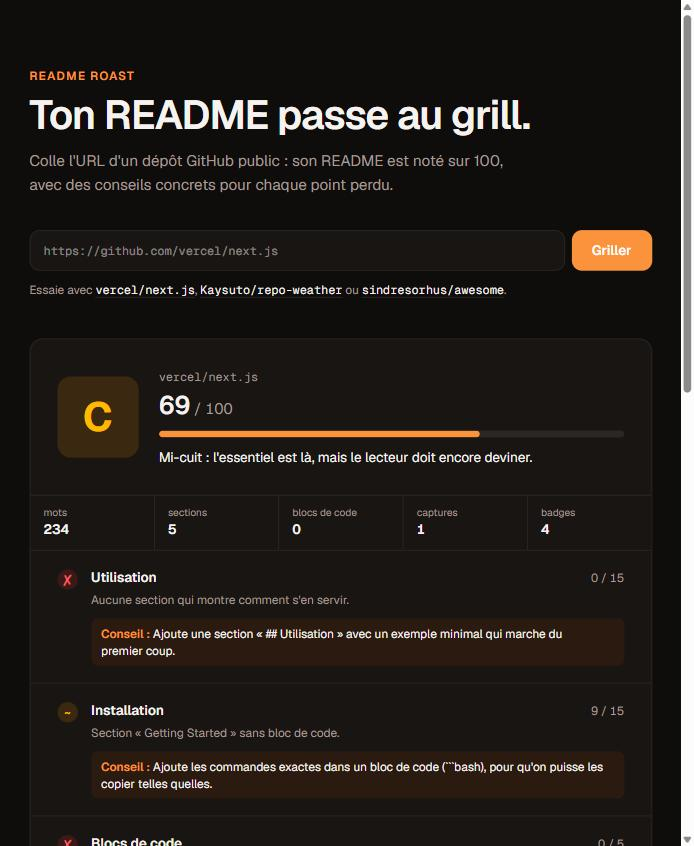
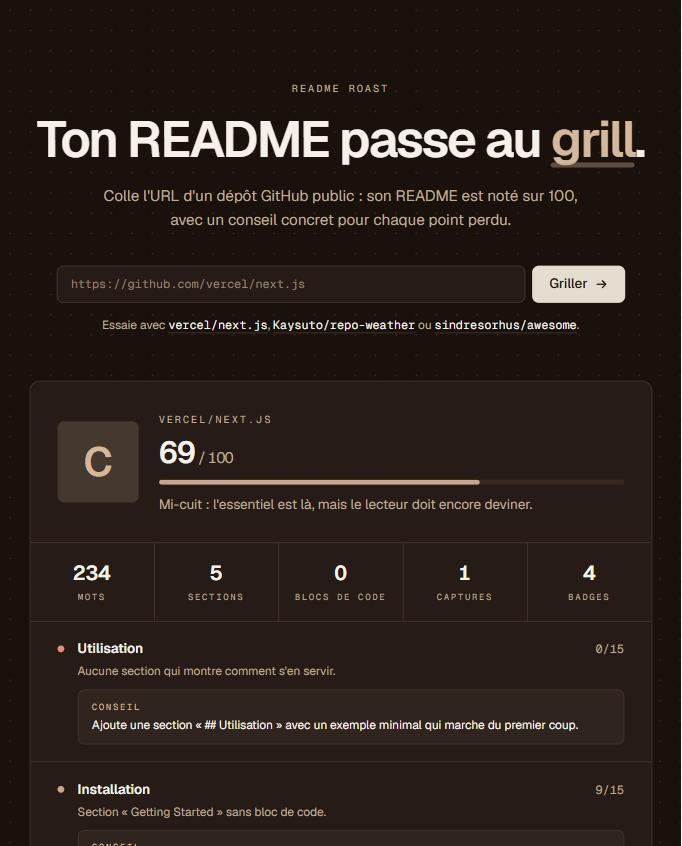
feat: design aux couleurs de kaysuto.fr

diff --git a/src/app/result.tsx b/src/app/result.tsx
@@ -3,11 +3,11 @@ import { parseRepo } from "@/lib/repo-url";
 import { analyzeReadme, type Check, type Grade, type Report } from "@/lib/rules";
 
 const GRADE_STYLE: Record<Grade, string> = {
-  A: "bg-emerald-500/15 text-emerald-600 dark:text-emerald-400",
-  B: "bg-lime-500/15 text-lime-700 dark:text-lime-400",
-  C: "bg-amber-500/15 text-amber-700 dark:text-amber-400",
-  D: "bg-orange-500/15 text-orange-700 dark:text-orange-400",
-  F: "bg-red-500/15 text-red-600 dark:text-red-400",
+  A: "bg-success/15 text-success",
+  B: "bg-success/10 text-success",
+  C: "bg-accent/20 text-accent-text",
+  D: "bg-corail/15 text-corail",
+  F: "bg-destructive/15 text-destructive",
 };
 
 const ERRORS = {
@@ -25,8 +25,8 @@ export async function Result({ searchParams }: { searchParams: PageProps<"/">["s
   if (!ref) {
     return (
       <Notice title="Adresse non reconnue">
-        Colle une URL du type <code className="font-mono">https://github.com/propriétaire/dépôt</code> ou simplement{" "}
-        <code className="font-mono">propriétaire/dépôt</code>.
+        Colle une URL du type <code className="font-mono text-foreground">https://github.com/propriétaire/dépôt</code> ou
+        simplement <code className="font-mono text-foreground">propriétaire/dépôt</code>.
       </Notice>
     );
   }
@@ -39,7 +39,7 @@ export async function Result({ searchParams }: { searchParams: PageProps<"/">["s
   if (!result.repo.readme) {
     return (
       <Notice title="Pas de README à griller">
-        <a href={result.repo.url} className="font-mono underline underline-offset-4">
+        <a href={result.repo.url} className="font-mono text-foreground underline underline-offset-4">
           {result.repo.owner}/{result.repo.name}
         </a>{" "}
         n&apos;a pas de README. C&apos;est la première chose qu&apos;un visiteur cherche : commence par un titre, une phrase
@@ -63,39 +63,37 @@ function ReportView({ repo, report }: { repo: RepoData; report: Report }) {
   ] as const;
 
   return (
-    <section aria-labelledby="verdict" className="mt-12 overflow-hidden rounded-2xl border border-border bg-card">
+    <section aria-labelledby="verdict" className="mt-14 overflow-hidden rounded-xl border border-border bg-card">
       <div className="flex flex-col gap-6 p-6 sm:flex-row sm:items-center sm:p-8">
         <div
-          className={`flex size-24 shrink-0 items-center justify-center rounded-2xl text-5xl font-bold ${GRADE_STYLE[report.grade]}`}
+          className={`flex size-24 shrink-0 items-center justify-center rounded-lg text-5xl font-semibold tracking-tight ${GRADE_STYLE[report.grade]}`}
           aria-label={`Note ${report.grade}`}
         >
           {report.grade}
         </div>
         <div className="min-w-0 flex-1">
-          <a
-            href={repo.readmeUrl ?? repo.url}
-            className="font-mono text-sm text-muted underline-offset-4 hover:text-foreground hover:underline"
-          >
+          <a href={repo.readmeUrl ?? repo.url} className="label transition hover:text-foreground">
             {repo.owner}/{repo.name}
           </a>
-          <p className="mt-1 text-3xl font-semibold tabular-nums">
+          <p className="mt-2 text-4xl font-semibold tracking-tight tabular-nums">
             {report.score}
             <span className="text-lg font-normal text-muted"> / 100</span>
           </p>
-          <div className="mt-3 h-2 overflow-hidden rounded-full bg-border" aria-hidden>
+          <div className="mt-3 h-1.5 overflow-hidden rounded-full bg-surface" aria-hidden>
             <div className="h-full rounded-full bg-accent" style={{ width: `${report.score}%` }} />
           </div>
-          <p id="verdict" className="mt-3 text-pretty">
+          <p id="verdict" className="mt-3 text-muted text-pretty">
             {report.verdict}
           </p>
         </div>
       </div>
 
-      <dl className="grid grid-cols-3 gap-px border-t border-border bg-border sm:grid-cols-5">
+      {/* Trois cases par ligne sur mobile : les deux dernières s'élargissent au lieu de laisser un trou. */}
+      <dl className="flex flex-wrap gap-px border-t border-border bg-border">
         {stats.map(([label, value]) => (
-          <div key={label} className="bg-card px-4 py-3">
-            <dt className="text-xs text-muted">{label}</dt>
-            <dd className="font-semibold tabular-nums">{value.toLocaleString("fr-FR")}</dd>
+          <div key={label} className="flex flex-1 basis-[30%] flex-col-reverse items-center gap-1 bg-card px-3 py-5 text-center sm:basis-0">
+            <dt className="label text-[0.65rem]">{label}</dt>
+            <dd className="text-2xl font-semibold tabular-nums">{value.toLocaleString("fr-FR")}</dd>
           </div>
         ))}
       </dl>
@@ -111,31 +109,25 @@ function ReportView({ repo, report }: { repo: RepoData; report: Report }) {
 
 function CheckRow({ check }: { check: Check }) {
   const status = check.earned === check.max ? "full" : check.earned > 0 ? "partial" : "none";
-  const icon = { full: "✓", partial: "~", none: "✗" }[status];
-  const color = {
-    full: "bg-emerald-500/15 text-emerald-600 dark:text-emerald-400",
-    partial: "bg-amber-500/15 text-amber-700 dark:text-amber-400",
-    none: "bg-red-500/15 text-red-600 dark:text-red-400",
-  }[status];
+  const dot = { full: "bg-success", partial: "bg-accent", none: "bg-corail" }[status];
+  const label = { full: "Réussi", partial: "Partiel", none: "Raté" }[status];
 
   return (
     <li className="flex gap-4 p-5 sm:px-8">
-      <span className={`mt-0.5 flex size-6 shrink-0 items-center justify-center rounded-full text-sm font-bold ${color}`} aria-hidden>
-        {icon}
-      </span>
+      <span className={`mt-2 size-2 shrink-0 rounded-full ${dot}`} role="img" aria-label={label} />
       <div className="min-w-0 flex-1">
         <div className="flex items-baseline justify-between gap-4">
           <h3 className="font-semibold">{check.label}</h3>
-          <span className="shrink-0 text-sm tabular-nums text-muted">
-            {check.earned} / {check.max}
+          <span className="shrink-0 font-mono text-sm tabular-nums text-muted">
+            {check.earned}/{check.max}
           </span>
         </div>
         <p className="mt-1 text-sm text-muted">{check.detail}</p>
         {check.advice && (
-          <p className="mt-3 rounded-lg bg-accent-soft px-3 py-2 text-sm text-pretty">
-            <span className="font-semibold text-accent">Conseil : </span>
-            {check.advice}
-          </p>
+          <div className="mt-3 rounded-lg border border-border bg-surface/60 px-4 py-3">
+            <p className="label text-[0.65rem] text-accent-text">Conseil</p>
+            <p className="mt-1 text-sm text-pretty">{check.advice}</p>
+          </div>
         )}
       </div>
     </li>
@@ -144,7 +136,7 @@ function CheckRow({ check }: { check: Check }) {
 
 function Notice({ title, children }: { title: string; children: React.ReactNode }) {
   return (
-    <section role="status" className="mt-12 rounded-2xl border border-border bg-card p-6 sm:p-8">
+    <section role="status" className="mt-14 rounded-xl border border-border bg-card p-6 sm:p-8">
       <h2 className="font-semibold">{title}</h2>
       <p className="mt-2 text-muted text-pretty">{children}</p>
     </section>
@@ -153,8 +145,8 @@ function Notice({ title, children }: { title: string; children: React.ReactNode 
 
 export function ResultSkeleton() {
   return (
-    <div role="status" className="mt-12 animate-pulse rounded-2xl border border-border bg-card p-8 text-muted">
-      Mise au grill du README…
+    <div role="status" className="mt-14 rounded-xl border border-border bg-card p-8 text-center">
+      <p className="label animate-pulse">Mise au grill du README…</p>
     </div>
   );
 }

diff --git a/src/app/page.tsx b/src/app/page.tsx
@@ -7,62 +7,81 @@ const EXAMPLES = ["vercel/next.js", "Kaysuto/repo-weather", "sindresorhus/awesom
 
 export default function Page({ searchParams }: PageProps<"/">) {
   return (
-    <main className="mx-auto w-full max-w-3xl flex-1 px-4 py-12 sm:py-20">
-      <header>
-        <p className="text-sm font-semibold uppercase tracking-widest text-accent">README Roast</p>
-        <h1 className="mt-3 text-4xl font-semibold tracking-tight text-balance sm:text-5xl">
-          Ton README passe au grill.
-        </h1>
-        <p className="mt-4 max-w-xl text-lg text-muted text-pretty">
-          Colle l&apos;URL d&apos;un dépôt GitHub public : son README est noté sur 100, avec des conseils concrets pour
-          chaque point perdu.
+    <div className="bg-dots flex-1">
+      <main className="mx-auto w-full max-w-3xl px-4 py-16 sm:py-24">
+        <header className="text-center">
+          <p className="label">README Roast</p>
+          <h1 className="mt-5 text-4xl font-semibold tracking-[-0.038em] text-balance sm:text-6xl">
+            Ton README passe au{" "}
+            <span className="relative inline-block text-accent-text">
+              grill
+              <span className="absolute inset-x-0 -bottom-1 h-1.5 rounded-full bg-accent/40" aria-hidden />
+            </span>
+            .
+          </h1>
+          <p className="mx-auto mt-6 max-w-xl text-lg text-muted text-pretty">
+            Colle l&apos;URL d&apos;un dépôt GitHub public : son README est noté sur 100, avec un conseil concret pour
+            chaque point perdu.
+          </p>
+        </header>
+
+        <Form action="/" className="mx-auto mt-10 flex max-w-2xl flex-col gap-2 sm:flex-row">
+          <label htmlFor="repo" className="sr-only">
+            Dépôt GitHub
+          </label>
+          <input
+            id="repo"
+            name="repo"
+            required
+            autoComplete="off"
+            spellCheck={false}
+            placeholder="https://github.com/vercel/next.js"
+            className="h-11 min-w-0 rounded-lg border border-border bg-card px-4 font-mono text-sm outline-none transition placeholder:text-muted/70 focus:border-accent focus:ring-3 focus:ring-accent/25 sm:flex-1"
+          />
+          <button
+            type="submit"
+            className="inline-flex h-11 items-center justify-center gap-2 rounded-lg bg-primary px-5 font-medium text-primary-foreground transition hover:opacity-90 focus-visible:ring-3 focus-visible:ring-accent/40 focus-visible:outline-none"
+          >
+            Griller
+            <svg viewBox="0 0 16 16" className="size-4" fill="none" stroke="currentColor" strokeWidth="1.6" aria-hidden>
+              <path d="M3 8h10M9 4l4 4-4 4" strokeLinecap="round" strokeLinejoin="round" />
+            </svg>
+          </button>
+        </Form>
+
+        <p className="mt-4 text-center text-sm text-muted">
+          Essaie avec{" "}
+          {EXAMPLES.map((repo, i) => (
+            <span key={repo}>
+              {i > 0 && (i === EXAMPLES.length - 1 ? " ou " : ", ")}
+              <Link
+                href={`/?repo=${repo}`}
+                className="font-mono text-foreground underline decoration-border underline-offset-4 transition hover:decoration-accent"
+              >
+                {repo}
+              </Link>
+            </span>
+          ))}
+          .
         </p>
-      </header>
 
-      <Form action="/" className="mt-10 flex flex-col gap-2 sm:flex-row">
-        <label htmlFor="repo" className="sr-only">
-          Dépôt GitHub
-        </label>
-        <input
-          id="repo"
-          name="repo"
-          required
-          autoComplete="off"
-          spellCheck={false}
-          placeholder="https://github.com/vercel/next.js"
-          className="h-12 min-w-0 rounded-xl sm:flex-1 border border-border bg-card px-4 font-mono text-sm outline-none transition focus:border-accent focus:ring-4 focus:ring-accent/15"
-        />
-        <button
-          type="submit"
-          className="h-12 rounded-xl bg-accent px-6 font-semibold text-white transition hover:brightness-110 focus-visible:ring-4 focus-visible:ring-accent/30 focus-visible:outline-none"
-        >
-          Griller
-        </button>
-      </Form>
+        <Suspense fallback={<ResultSkeleton />}>
+          <Result searchParams={searchParams} />
+        </Suspense>
 
-      <p className="mt-3 text-sm text-muted">
-        Essaie avec{" "}
-        {EXAMPLES.map((repo, i) => (
-          <span key={repo}>
-            {i > 0 && (i === EXAMPLES.length - 1 ? " ou " : ", ")}
-            <Link href={`/?repo=${repo}`} className="font-mono text-foreground underline decoration-border underline-offset-4 hover:decoration-accent">
-              {repo}
-            </Link>
-          </span>
-        ))}
-        .
-      </p>
-
-      <Suspense fallback={<ResultSkeleton />}>
-        <Result searchParams={searchParams} />
-      </Suspense>
-
-      <footer className="mt-16 border-t border-border pt-6 text-sm text-muted">
-        Règles fixes, sans IA : le même README obtient toujours la même note.{" "}
-        <a href="https://github.com/Kaysuto/readme-roast" className="underline underline-offset-4 hover:text-foreground">
-          Code source
-        </a>
-      </footer>
-    </main>
+        <footer className="mt-20 flex flex-col items-center gap-2 border-t border-border pt-8 text-center text-sm text-muted">
+          <p>Règles fixes, sans IA : le même README obtient toujours la même note.</p>
+          <p className="label">
+            <a href="https://github.com/Kaysuto/readme-roast" className="transition hover:text-foreground">
+              Code source
+            </a>
+            <span aria-hidden> · </span>
+            <a href="https://kaysuto.fr" className="transition hover:text-foreground">
+              Kimiya
+            </a>
+          </p>
+        </footer>
+      </main>
+    </div>
   );
 }

diff --git a/src/app/globals.css b/src/app/globals.css
@@ -1,37 +1,74 @@
 @import "tailwindcss";
 
+/* Palette « café » de kaysuto.fr : bruns chauds, crème et sable. */
 :root {
-  --background: #fbfaf8;
-  --foreground: #1c1917;
-  --muted: #6b645e;
-  --card: #ffffff;
-  --border: #e7e3de;
-  --accent: #ea580c;
-  --accent-soft: #fff1e8;
+  --background: oklch(95.93% 0.0103 82);
+  --foreground: oklch(34.74% 0.0362 45.5);
+  --card: oklch(98.8% 0.005 82);
+  --surface: oklch(90.5% 0.018 78);
+  --border: oklch(84.27% 0.028 72.8);
+  --input: oklch(88.5% 0.023 76);
+  --muted: oklch(49.87% 0.057 53.2);
+  --primary: oklch(34.74% 0.0362 45.5);
+  --primary-foreground: oklch(95.93% 0.0103 82);
+  --accent: oklch(69.19% 0.0486 63.7);
+  --accent-text: oklch(49.87% 0.057 53.2);
+  --success: oklch(49.5% 0.085 140);
+  --corail: oklch(60% 0.115 38);
+  --destructive: oklch(50.5% 0.16 30);
 }
 
 @media (prefers-color-scheme: dark) {
   :root {
-    --background: #0f0d0c;
-    --foreground: #f5f2ef;
-    --muted: #a39b94;
-    --card: #181513;
-    --border: #2c2724;
-    --accent: #fb923c;
-    --accent-soft: #2a1a10;
+    --background: oklch(19% 0.017 46);
+    --foreground: oklch(95.93% 0.0103 82);
+    --card: oklch(23.5% 0.019 46);
+    --surface: oklch(29.5% 0.024 48);
+    --border: oklch(34.5% 0.028 50);
+    --input: oklch(31.5% 0.026 49);
+    --muted: oklch(75.5% 0.035 68);
+    --primary: oklch(90% 0.02 78);
+    --primary-foreground: oklch(20% 0.018 46);
+    --accent: oklch(75% 0.05 64);
+    --accent-text: oklch(80% 0.05 66);
+    --success: oklch(75% 0.085 140);
+    --corail: oklch(73% 0.115 38);
+    --destructive: oklch(65.5% 0.16 30);
   }
 }
 
 @theme inline {
   --color-background: var(--background);
   --color-foreground: var(--foreground);
-  --color-muted: var(--muted);
   --color-card: var(--card);
+  --color-surface: var(--surface);
   --color-border: var(--border);
+  --color-input: var(--input);
+  --color-muted: var(--muted);
+  --color-primary: var(--primary);
+  --color-primary-foreground: var(--primary-foreground);
   --color-accent: var(--accent);
-  --color-accent-soft: var(--accent-soft);
+  --color-accent-text: var(--accent-text);
+  --color-success: var(--success);
+  --color-corail: var(--corail);
+  --color-destructive: var(--destructive);
   --font-sans: var(--font-geist-sans);
   --font-mono: var(--font-geist-mono);
+}
+
+/* Petites étiquettes en capitales espacées, comme les légendes du portfolio. */
+@utility label {
+  font-family: var(--font-geist-mono);
+  font-size: 0.75rem;
+  letter-spacing: 0.2em;
+  text-transform: uppercase;
+  color: var(--muted);
+}
+
+/* Grille de points discrète en fond de page. */
+@utility bg-dots {
+  background-image: radial-gradient(color-mix(in oklch, var(--foreground) 14%, transparent) 1px, transparent 1.2px);
+  background-size: 24px 24px;
 }
 
 body {
